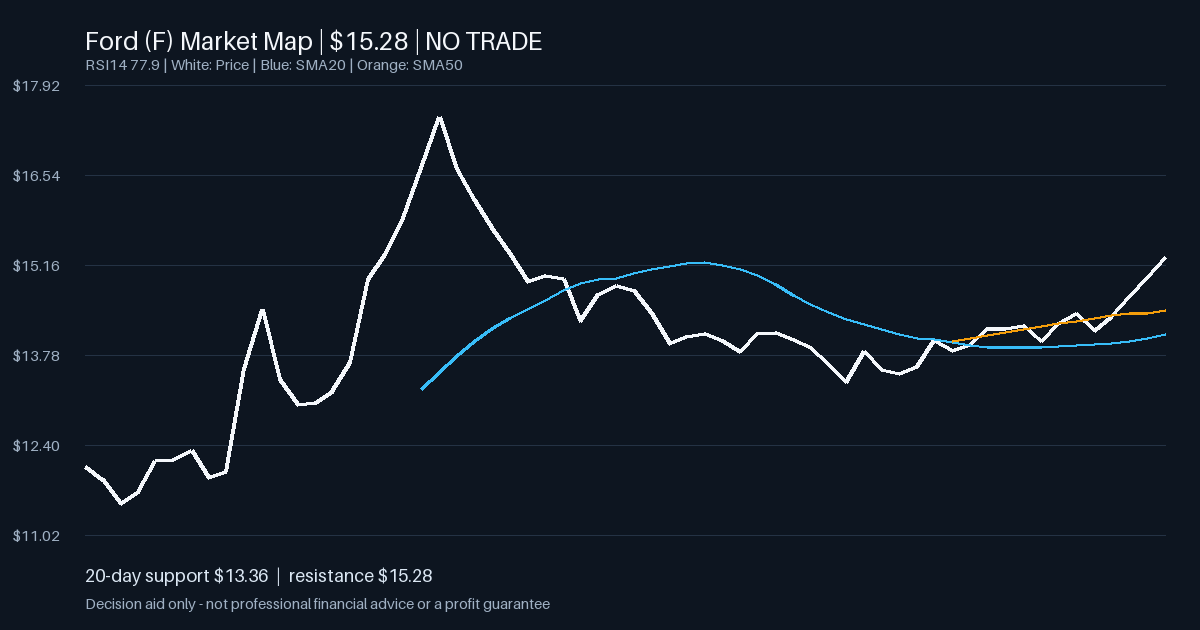
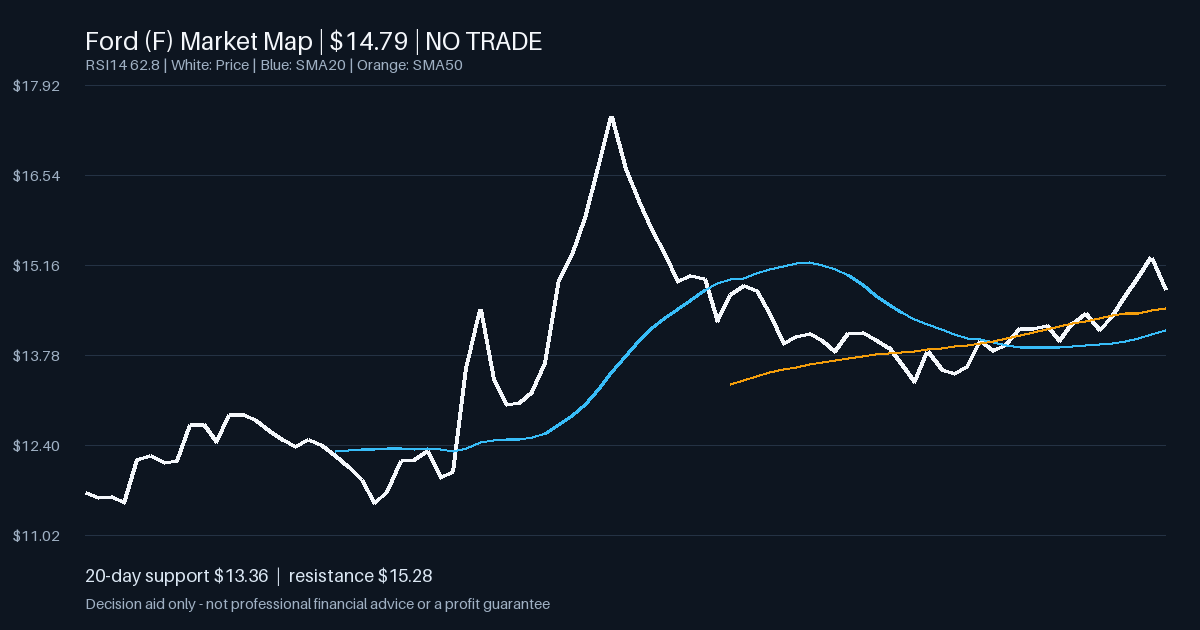
Back up current live scanner state

diff --git a/docs/index.html b/docs/index.html
@@ -18,17 +18,17 @@ h1 { font-size:22px; margin:0 0 4px; } .sub,.plsub,.muted,.footer { color:#9aa3b
 .footer { font-size:11px; margin-top:10px; }
 </style></head><body>
 <h1>Tradysquids · Ford Options Desk</h1>
-<div class='sub'>Tradier market data · refreshed every 15 minutes · last build 2026-07-29 22:57 CDT</div>
-<div class='card'><h2>Ford spot</h2><div class='muted'>Quote unavailable</div></div>
+<div class='sub'>Tradier market data · refreshed every 15 minutes · last build 2026-07-30 11:21 CDT</div>
+<div class='card'><h2>Ford spot</h2><div class='price'>$14.79</div><div class='chg down'>-0.49 (-3.24%)</div></div>
 <div class='tabs'>
-<button class='tab-btn active' data-tab='open'>Open (12)</button>
+<button class='tab-btn active' data-tab='open'>Open (0)</button>
 <button class='tab-btn' data-tab='watch'>All plays (20)</button>
-<button class='tab-btn' data-tab='closed'>Closed · 2W-6L-0S (25%)</button>
+<button class='tab-btn' data-tab='closed'>Closed · 7W-13L-0S (35%)</button>
 </div>
-<div id='tab-open' class='tab-panel active'><div class='play-group'><div class='play-head'><div class='play-title'>F-20260729-001 · PUT CREDIT 14.5/14 · 2026-08-07</div><div class='pl zero'>$0 (+0%)</div></div><div class='plsub'>Signal: <b>HOLD</b> · MFE +0% · MAE +0%</div><div class='legrow'><b>SELL</b> 14.5 PUT</div><div class='legrow'><b>BUY</b> 14 PUT</div></div><div class='play-group'><div class='play-head'><div class='play-title'>F-20260729-002 · CALL CREDIT 16/16.5 · 2026-08-07</div><div class='pl zero'>$0 (+0%)</div></div><div class='plsub'>Signal: <b>HOLD</b> · MFE +0% · MAE +0%</div><div class='legrow'><b>SELL</b> 16 CALL</div><div class='legrow'><b>BUY</b> 16.5 CALL</div></div><div class='play-group'><div class='play-head'><div class='play-title'>F-20260729-004 · REGULAR PUT 15.5 · 2026-08-07</div><div class='pl zero'>$0 (+0%)</div></div><div class='plsub'>Signal: <b>HOLD</b> · MFE +0% · MAE +0%</div></div><div class='play-group'><div class='play-head'><div class='play-title'>F-20260729-006 · REGULAR CALL 15.5 · 2026-08-07</div><div class='pl zero'>$0 (+0%)</div></div><div class='plsub'>Signal: <b>HOLD</b> · MFE +0% · MAE +0%</div></div><div class='play-group'><div class='play-head'><div class='play-title'>F-20260729-007 · SWING CALL 15 · 2026-08-21</div><div class='pl zero'>$0 (+0%)</div></div><div class='plsub'>Signal: <b>HOLD</b> · MFE +0% · MAE +0%</div></div><div class='play-group'><div class='play-head'><div class='play-title'>F-20260729-009 · SWING CALL 15 · 2026-09-04</div><div class='pl zero'>$0 (+0%)</div></div><div class='plsub'>Signal: <b>HOLD</b> · MFE +0% · MAE +0%</div></div><div class='play-group'><div class='play-head'><div class='play-title'>F-20260729-010 · SWING PUT 15 · 2026-09-04</div><div class='pl zero'>$0 (+0%)</div></div><div class='plsub'>Signal: <b>HOLD</b> · MFE +0% · MAE +0%</div></div><div class='play-group'><div class='play-head'><div class='play-title'>F-20260729-011 · CALL CREDIT 16/16.5 · 2026-07-31</div><div class='pl zero'>$0 (+0%)</div></div><div class='plsub'>Signal: <b>HOLD</b> · MFE +0% · MAE +0%</div><div class='legrow'><b>SELL</b> 16 CALL</div><div class='legrow'><b>BUY</b> 16.5 CALL</div></div><div class='play-group'><div class='play-head'><div class='play-title'>F-20260729-014 · SWING CALL 15 · 2026-08-14</div><div class='pl zero'>$0 (+0%)</div></div><div class='plsub'>Signal: <b>HOLD</b> · MFE +0% · MAE +0%</div></div><div class='play-group'><div class='play-head'><div class='play-title'>F-20260729-015 · SWING CALL 15.5 · 2026-08-14</div><div class='pl zero'>$0 (+0%)</div></div><div class='plsub'>Signal: <b>HOLD</b> · MFE +0% · MAE +0%</div></div><div class='play-group'><div class='play-head'><div class='play-title'>F-20260729-018 · CALL CREDIT 16.5/17 · 2026-07-31</div><div class='pl zero'>$0 (+0%)</div></div><div class='plsub'>Signal: <b>HOLD</b> · MFE +0% · MAE +0%</div><div class='legrow'><b>SELL</b> 16.5 CALL</div><div class='legrow'><b>BUY</b> 17 CALL</div></div><div class='play-group'><div class='play-head'><div class='play-title'>F-20260729-020 · SWING CALL 16 · 2026-08-14</div><div class='pl zero'>$0 (+0%)</div></div><div class='plsub'>Signal: <b>HOLD</b> · MFE +0% · MAE +0%</div></div></div>
+<div id='tab-open' class='tab-panel active'><div class='muted'>No open plays.</div></div>
 <div id='tab-watch' class='tab-panel'><div class='play-group'><div class='play-title'>F-20260729-001 · PUT CREDIT 14.5/14 · 2026-08-07</div><div class='plsub'>Entry 0.06 credit · Max profit 6.0 · Max risk 44.0 · BE 14.44</div><div class='legrow'><b>SELL</b> 14.5 PUT</div><div class='legrow'><b>BUY</b> 14 PUT</div></div><div class='play-group'><div class='play-title'>F-20260729-002 · CALL CREDIT 16/16.5 · 2026-08-07</div><div class='plsub'>Entry 0.10 credit · Max profit 10.0 · Max risk 40.0 · BE 16.1</div><div class='legrow'><b>SELL</b> 16 CALL</div><div class='legrow'><b>BUY</b> 16.5 CALL</div></div><div class='play-group'><div class='play-title'>F-20260729-003 · REGULAR PUT 15.5 · 2026-07-31</div><div class='plsub'>Entry 0.33 · Max profit 1517.0 · Max risk 33.0 · BE 15.17</div></div><div class='play-group'><div class='play-title'>F-20260729-004 · REGULAR PUT 15.5 · 2026-08-07</div><div class='plsub'>Entry 0.49 · Max profit 1501.0 · Max risk 49.0 · BE 15.01</div></div><div class='play-group'><div class='play-title'>F-20260729-005 · REGULAR CALL 15.5 · 2026-07-31</div><div class='plsub'>Entry 0.29 · Max profit UNLIMITED · Max risk 29.0 · BE 15.79</div></div><div class='play-group'><div class='play-title'>F-20260729-006 · REGULAR CALL 15.5 · 2026-08-07</div><div class='plsub'>Entry 0.47 · Max profit UNLIMITED · Max risk 47.0 · BE 15.97</div></div><div class='play-group'><div class='play-title'>F-20260729-007 · SWING CALL 15 · 2026-08-21</div><div class='plsub'>Entry 0.84 · Max profit UNLIMITED · Max risk 84.0 · BE 15.84</div></div><div class='play-group'><div class='play-title'>F-20260729-008 · SWING PUT 15 · 2026-08-21</div><div class='plsub'>Entry 0.47 · Max profit 1453.0 · Max risk 47.0 · BE 14.53</div></div><div class='play-group'><div class='play-title'>F-20260729-009 · SWING CALL 15 · 2026-09-04</div><div class='plsub'>Entry 0.97 · Max profit UNLIMITED · Max risk 97.0 · BE 15.97</div></div><div class='play-group'><div class='play-title'>F-20260729-010 · SWING PUT 15 · 2026-09-04</div><div class='plsub'>Entry 0.59 · Max profit 1441.0 · Max risk 59.0 · BE 14.41</div></div><div class='play-group'><div class='play-title'>F-20260729-011 · CALL CREDIT 16/16.5 · 2026-07-31</div><div class='plsub'>Entry 0.07 credit · Max profit 7.0 · Max risk 43.0 · BE 16.07</div><div class='legrow'><b>SELL</b> 16 CALL</div><div class='legrow'><b>BUY</b> 16.5 CALL</div></div><div class='play-group'><div class='play-title'>F-20260729-012 · CALL CREDIT 16.5/17 · 2026-07-31</div><div class='plsub'>Entry 0.01 credit · Max profit 1.0 · Max risk 49.0 · BE 16.51</div><div class='legrow'><b>SELL</b> 16.5 CALL</div><div class='legrow'><b>BUY</b> 17 CALL</div></div><div class='play-group'><div class='play-title'>F-20260729-013 · PUT CREDIT 15/14.5 · 2026-07-31</div><div class='plsub'>Entry 0.04 credit · Max profit 4.0 · Max risk 46.0 · BE 14.96</div><div class='legrow'><b>SELL</b> 15 PUT</div><div class='legrow'><b>BUY</b> 14.5 PUT</div></div><div class='play-group'><div class='play-title'>F-20260729-014 · SWING CALL 15 · 2026-08-14</div><div class='plsub'>Entry 0.85 · Max profit UNLIMITED · Max risk 85.0 · BE 15.85</div></div><div class='play-group'><div class='play-title'>F-20260729-015 · SWING CALL 15.5 · 2026-08-14</div><div class='plsub'>Entry 0.57 · Max profit UNLIMITED · Max risk 57.0 · BE 16.07</div></div><div class='play-group'><div class='play-title'>F-20260729-016 · SWING PUT 15 · 2026-08-14</div><div class='plsub'>Entry 0.37 · Max profit 1463.0 · Max risk 37.0 · BE 14.63</div></div><div class='play-group'><div class='play-title'>F-20260729-017 · REGULAR PUT 15.5 · 2026-07-31</div><div class='plsub'>Entry 0.18 · Max profit 1532.0 · Max risk 18.0 · BE 15.32</div></div><div class='play-group'><div class='play-title'>F-20260729-018 · CALL CREDIT 16.5/17 · 2026-07-31</div><div class='plsub'>Entry 0.02 credit · Max profit 2.0 · Max risk 48.0 · BE 16.52</div><div class='legrow'><b>SELL</b> 16.5 CALL</div><div class='legrow'><b>BUY</b> 17 CALL</div></div><div class='play-group'><div class='play-title'>F-20260729-019 · REGULAR CALL 15.5 · 2026-07-31</div><div class='plsub'>Entry 0.4 · Max profit UNLIMITED · Max risk 40.0 · BE 15.9</div></div><div class='play-group'><div class='play-title'>F-20260729-020 · SWING CALL 16 · 2026-08-14</div><div class='plsub'>Entry 0.27 · Max profit UNLIMITED · Max risk 27.0 · BE 16.27</div></div></div>
-<div id='tab-closed' class='tab-panel'><div class='play-group closed'><div class='play-head'><div class='play-title'>F-20260729-019 · REGULAR CALL 15.5 · 2026-07-31</div><div><span class='badge badge-loss'>LOSS</span> <span class='pl'>-$18 (-46%)</span></div></div><div class='plsub'>Entry $0.40 ($40) · Exit ≈$0.22 (≈$22) · Opened 2026-07-29 13:55 · Closed 2026-07-29 14:40 · MFE — · MAE —</div></div><div class='play-group closed'><div class='play-head'><div class='play-title'>F-20260729-017 · REGULAR PUT 15.5 · 2026-07-31</div><div><span class='badge badge-win'>WIN</span> <span class='pl'>$16 (+86%)</span></div></div><div class='plsub'>Entry $0.18 ($18) · Exit ≈$0.34 (≈$34) · Opened 2026-07-29 13:50 · Closed 2026-07-29 14:40 · MFE — · MAE —</div></div><div class='play-group closed'><div class='play-head'><div class='play-title'>F-20260729-016 · SWING PUT 15 · 2026-08-14</div><div><span class='badge badge-loss'>LOSS</span> <span class='pl'>-$9 (-23%)</span></div></div><div class='plsub'>Entry $0.37 ($37) · Exit ≈$0.28 (≈$28) · Opened 2026-07-29 13:16 · Closed 2026-07-29 13:55 · MFE — · MAE —</div></div><div class='play-group closed'><div class='play-head'><div class='play-title'>F-20260729-013 · PUT CREDIT 15/14.5 · 2026-07-31</div><div><span class='badge badge-loss'>LOSS</span> <span class='pl'>-$6 (-150%)</span></div></div><div class='plsub'>Entry $0.04 ($4) · Exit ≈$0.10 (≈$10) · Opened 2026-07-29 13:16 · Closed 2026-07-29 14:40 · MFE — · MAE —</div><div class='legrow'><b>SELL</b> 15 PUT</div><div class='legrow'><b>BUY</b> 14.5 PUT</div></div><div class='play-group closed'><div class='play-head'><div class='play-title'>F-20260729-012 · CALL CREDIT 16.5/17 · 2026-07-31</div><div><span class='badge badge-loss'>LOSS</span> <span class='pl'>-$3 (-300%)</span></div></div><div class='plsub'>Entry $0.01 ($1) · Exit ≈$0.04 (≈$4) · Opened 2026-07-29 13:16 · Closed 2026-07-29 13:50 · MFE — · MAE —</div><div class='legrow'><b>SELL</b> 16.5 CALL</div><div class='legrow'><b>BUY</b> 17 CALL</div></div><div class='play-group closed'><div class='play-head'><div class='play-title'>F-20260729-008 · SWING PUT 15 · 2026-08-21</div><div><span class='badge badge-loss'>LOSS</span> <span class='pl'>-$13 (-27%)</span></div></div><div class='plsub'>Entry $0.47 ($47) · Exit ≈$0.34 (≈$34) · Opened 2026-07-29 11:40 · Closed 2026-07-29 13:50 · MFE — · MAE —</div></div><div class='play-group closed'><div class='play-head'><div class='play-title'>F-20260729-005 · REGULAR CALL 15.5 · 2026-07-31</div><div><span class='badge badge-win'>WIN</span> <span class='pl'>$12 (+41%)</span></div></div><div class='plsub'>Entry $0.29 ($29) · Exit ≈$0.41 (≈$41) · Opened 2026-07-29 11:40 · Closed 2026-07-29 13:50 · MFE — · MAE —</div></div><div class='play-group closed'><div class='play-head'><div class='play-title'>F-20260729-003 · REGULAR PUT 15.5 · 2026-07-31</div><div><span class='badge badge-loss'>LOSS</span> <span class='pl'>-$8 (-24%)</span></div></div><div class='plsub'>Entry $0.33 ($33) · Exit ≈$0.25 (≈$25) · Opened 2026-07-29 11:40 · Closed 2026-07-29 13:16 · MFE — · MAE —</div></div></div>
-<div class='card'><h2>Latest run</h2><div class='muted'>Market closed at 10:57 PM CDT; maintenance sync only.</div><div class='footer'>GitHub Actions schedule: every 15 minutes. GitHub can delay scheduled jobs; protective exits must not rely on this scanner.</div></div>
+<div id='tab-closed' class='tab-panel'><div class='play-group closed'><div class='play-head'><div class='play-title'>F-20260729-020 · SWING CALL 16 · 2026-08-14</div><div><span class='badge badge-loss'>LOSS</span> <span class='pl'>-$14 (-52%)</span></div></div><div class='plsub'>Entry $0.27 ($27) · Exit $0.13 ($13) · Opened 2026-07-29 14:40 · Closed 2026-07-30 08:31 · MFE +0% · MAE -52%</div></div><div class='play-group closed'><div class='play-head'><div class='play-title'>F-20260729-019 · REGULAR CALL 15.5 · 2026-07-31</div><div><span class='badge badge-loss'>LOSS</span> <span class='pl'>-$18 (-46%)</span></div></div><div class='plsub'>Entry $0.40 ($40) · Exit ≈$0.22 (≈$22) · Opened 2026-07-29 13:55 · Closed 2026-07-29 14:40 · MFE — · MAE —</div></div><div class='play-group closed'><div class='play-head'><div class='play-title'>F-20260729-018 · CALL CREDIT 16.5/17 · 2026-07-31</div><div><span class='badge badge-win'>WIN</span> <span class='pl'>$1 (+50%)</span></div></div><div class='plsub'>Entry $0.02 ($2) · Exit $0.01 ($1) · Opened 2026-07-29 13:55 · Closed 2026-07-30 08:31 · MFE +50% · MAE +0%</div><div class='legrow'><b>SELL</b> 16.5 CALL</div><div class='legrow'><b>BUY</b> 17 CALL</div></div><div class='play-group closed'><div class='play-head'><div class='play-title'>F-20260729-017 · REGULAR PUT 15.5 · 2026-07-31</div><div><span class='badge badge-win'>WIN</span> <span class='pl'>$16 (+86%)</span></div></div><div class='plsub'>Entry $0.18 ($18) · Exit ≈$0.34 (≈$34) · Opened 2026-07-29 13:50 · Closed 2026-07-29 14:40 · MFE — · MAE —</div></div><div class='play-group closed'><div class='play-head'><div class='play-title'>F-20260729-016 · SWING PUT 15 · 2026-08-14</div><div><span class='badge badge-loss'>LOSS</span> <span class='pl'>-$9 (-23%)</span></div></div><div class='plsub'>Entry $0.37 ($37) · Exit ≈$0.28 (≈$28) · Opened 2026-07-29 13:16 · Closed 2026-07-29 13:55 · MFE — · MAE —</div></div><div class='play-group closed'><div class='play-head'><div class='play-title'>F-20260729-015 · SWING CALL 15.5 · 2026-08-14</div><div><span class='badge badge-loss'>LOSS</span> <span class='pl'>-$37 (-65%)</span></div></div><div class='plsub'>Entry $0.57 ($57) · Exit $0.20 ($20) · Opened 2026-07-29 13:16 · Closed 2026-07-30 08:31 · MFE +0% · MAE -65%</div></div><div class='play-group closed'><div class='play-head'><div class='play-title'>F-20260729-014 · SWING CALL 15 · 2026-08-14</div><div><span class='badge badge-loss'>LOSS</span> <span class='pl'>-$49 (-58%)</span></div></div><div class='plsub'>Entry $0.85 ($85) · Exit $0.36 ($36) · Opened 2026-07-29 13:16 · Closed 2026-07-30 08:31 · MFE +0% · MAE -58%</div></div><div class='play-group closed'><div class='play-head'><div class='play-title'>F-20260729-013 · PUT CREDIT 15/14.5 · 2026-07-31</div><div><span class='badge badge-loss'>LOSS</span> <span class='pl'>-$6 (-150%)</span></div></div><div class='plsub'>Entry $0.04 ($4) · Exit ≈$0.10 (≈$10) · Opened 2026-07-29 13:16 · Closed 2026-07-29 14:40 · MFE — · MAE —</div><div class='legrow'><b>SELL</b> 15 PUT</div><div class='legrow'><b>BUY</b> 14.5 PUT</div></div><div class='play-group closed'><div class='play-head'><div class='play-title'>F-20260729-012 · CALL CREDIT 16.5/17 · 2026-07-31</div><div><span class='badge badge-loss'>LOSS</span> <span class='pl'>-$3 (-300%)</span></div></div><div class='plsub'>Entry $0.01 ($1) · Exit ≈$0.04 (≈$4) · Opened 2026-07-29 13:16 · Closed 2026-07-29 13:50 · MFE — · MAE —</div><div class='legrow'><b>SELL</b> 16.5 CALL</div><div class='legrow'><b>BUY</b> 17 CALL</div></div><div class='play-group closed'><div class='play-head'><div class='play-title'>F-20260729-011 · CALL CREDIT 16/16.5 · 2026-07-31</div><div><span class='badge badge-win'>WIN</span> <span class='pl'>$5 (+71%)</span></div></div><div class='plsub'>Entry $0.07 ($7) · Exit $0.02 ($2) · Opened 2026-07-29 13:16 · Closed 2026-07-30 08:31 · MFE +71% · MAE +0%</div><div class='legrow'><b>SELL</b> 16 CALL</div><div class='legrow'><b>BUY</b> 16.5 CALL</div></div><div class='play-group closed'><div class='play-head'><div class='play-title'>F-20260729-010 · SWING PUT 15 · 2026-09-04</div><div><span class='badge badge-win'>WIN</span> <span class='pl'>$11 (+19%)</span></div></div><div class='plsub'>Entry $0.59 ($59) · Exit $0.70 ($70) · Opened 2026-07-29 11:40 · Closed 2026-07-30 08:47 · MFE +19% · MAE -8%</div></div><div class='play-group closed'><div class='play-head'><div class='play-title'>F-20260729-009 · SWING CALL 15 · 2026-09-04</div><div><span class='badge badge-loss'>LOSS</span> <span class='pl'>-$53 (-55%)</span></div></div><div class='plsub'>Entry $0.97 ($97) · Exit $0.44 ($44) · Opened 2026-07-29 11:40 · Closed 2026-07-30 08:31 · MFE +0% · MAE -55%</div></div><div class='play-group closed'><div class='play-head'><div class='play-title'>F-20260729-008 · SWING PUT 15 · 2026-08-21</div><div><span class='badge badge-loss'>LOSS</span> <span class='pl'>-$13 (-27%)</span></div></div><div class='plsub'>Entry $0.47 ($47) · Exit ≈$0.34 (≈$34) · Opened 2026-07-29 11:40 · Closed 2026-07-29 13:50 · MFE — · MAE —</div></div><div class='play-group closed'><div class='play-head'><div class='play-title'>F-20260729-007 · SWING CALL 15 · 2026-08-21</div><div><span class='badge badge-loss'>LOSS</span> <span class='pl'>-$34 (-40%)</span></div></div><div class='plsub'>Entry $0.84 ($84) · Exit $0.50 ($50) · Opened 2026-07-29 11:40 · Closed 2026-07-30 08:31 · MFE +0% · MAE -40%</div></div><div class='play-group closed'><div class='play-head'><div class='play-title'>F-20260729-006 · REGULAR CALL 15.5 · 2026-08-07</div><div><span class='badge badge-loss'>LOSS</span> <span class='pl'>-$31 (-66%)</span></div></div><div class='plsub'>Entry $0.47 ($47) · Exit $0.16 ($16) · Opened 2026-07-29 11:40 · Closed 2026-07-30 08:31 · MFE +0% · MAE -66%</div></div><div class='play-group closed'><div class='play-head'><div class='play-title'>F-20260729-005 · REGULAR CALL 15.5 · 2026-07-31</div><div><span class='badge badge-win'>WIN</span> <span class='pl'>$12 (+41%)</span></div></div><div class='plsub'>Entry $0.29 ($29) · Exit ≈$0.41 (≈$41) · Opened 2026-07-29 11:40 · Closed 2026-07-29 13:50 · MFE — · MAE —</div></div><div class='play-group closed'><div class='play-head'><div class='play-title'>F-20260729-004 · REGULAR PUT 15.5 · 2026-08-07</div><div><span class='badge badge-win'>WIN</span> <span class='pl'>$15 (+31%)</span></div></div><div class='plsub'>Entry $0.49 ($49) · Exit $0.64 ($64) · Opened 2026-07-29 11:40 · Closed 2026-07-30 08:31 · MFE +31% · MAE +0%</div></div><div class='play-group closed'><div class='play-head'><div class='play-title'>F-20260729-003 · REGULAR PUT 15.5 · 2026-07-31</div><div><span class='badge badge-loss'>LOSS</span> <span class='pl'>-$8 (-24%)</span></div></div><div class='plsub'>Entry $0.33 ($33) · Exit ≈$0.25 (≈$25) · Opened 2026-07-29 11:40 · Closed 2026-07-29 13:16 · MFE — · MAE —</div></div><div class='play-group closed'><div class='play-head'><div class='play-title'>F-20260729-002 · CALL CREDIT 16/16.5 · 2026-08-07</div><div><span class='badge badge-win'>WIN</span> <span class='pl'>$5 (+50%)</span></div></div><div class='plsub'>Entry $0.10 ($10) · Exit $0.05 ($5) · Opened 2026-07-29 11:40 · Closed 2026-07-30 08:47 · MFE +50% · MAE -10%</div><div class='legrow'><b>SELL</b> 16 CALL</div><div class='legrow'><b>BUY</b> 16.5 CALL</div></div><div class='play-group closed'><div class='play-head'><div class='play-title'>F-20260729-001 · PUT CREDIT 14.5/14 · 2026-08-07</div><div><span class='badge badge-loss'>LOSS</span> <span class='pl'>-$11 (-183%)</span></div></div><div class='plsub'>Entry $0.06 ($6) · Exit $0.17 ($17) · Opened 2026-07-29 11:40 · Closed 2026-07-30 08:31 · MFE +0% · MAE -183%</div><div class='legrow'><b>SELL</b> 14.5 PUT</div><div class='legrow'><b>BUY</b> 14 PUT</div></div></div>
+<div class='card'><h2>Latest run</h2><div class='muted'>Spot $14.79 · 0 contracts scanned · 0 passed filters · 0 opened · 0 closed · 0 HOLD · 0 open total.</div><div class='footer'>GitHub Actions schedule: every 15 minutes. GitHub can delay scheduled jobs; protective exits must not rely on this scanner.</div></div>
 <script>
 document.querySelectorAll('.tab-btn').forEach(btn => btn.addEventListener('click', () => {
  document.querySelectorAll('.tab-btn').forEach(b => b.classList.remove('active'));
